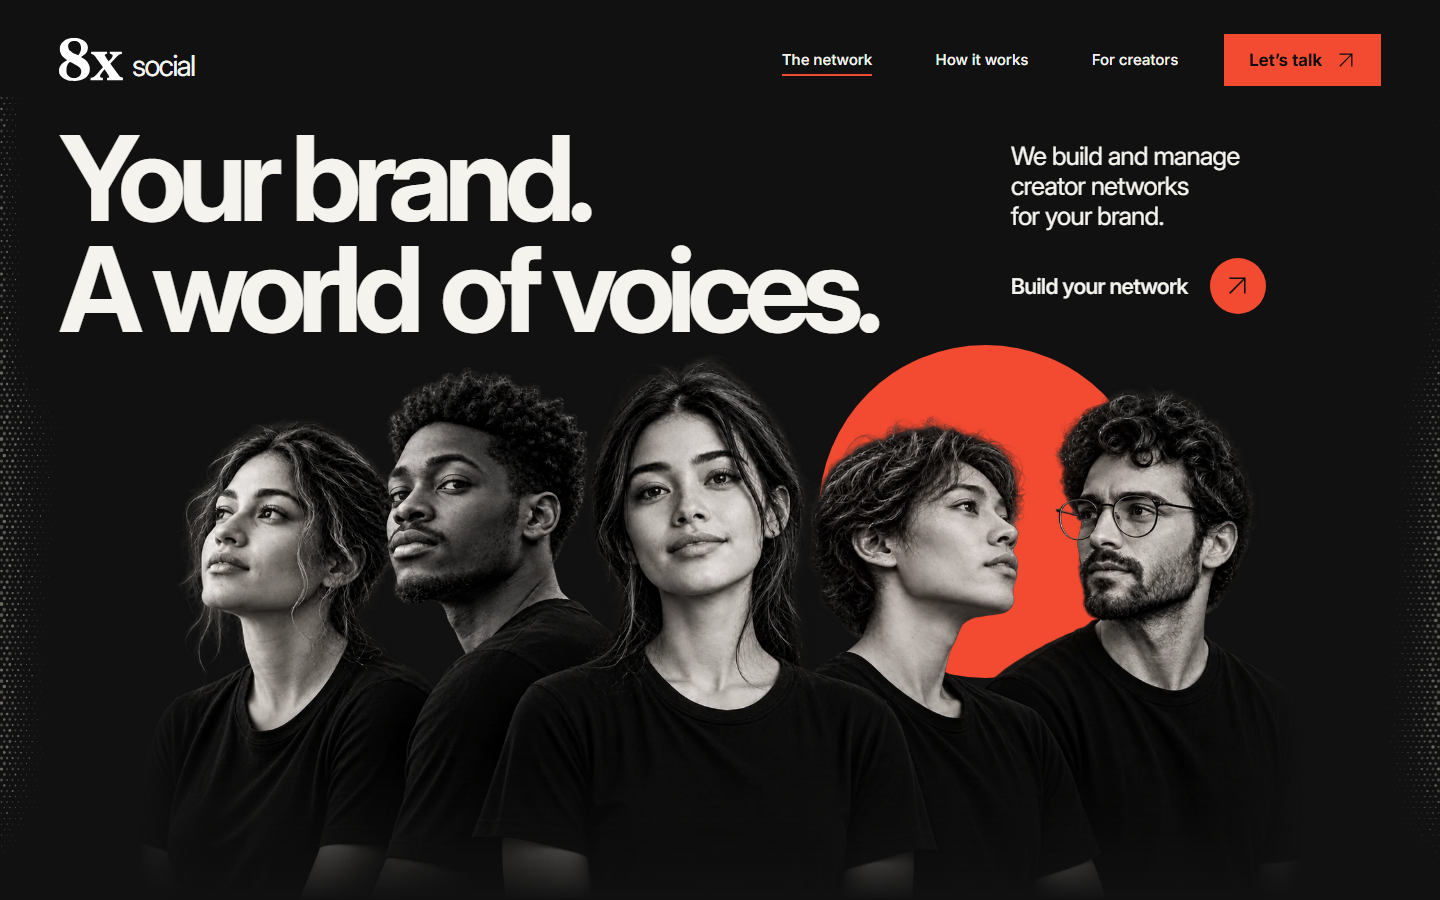
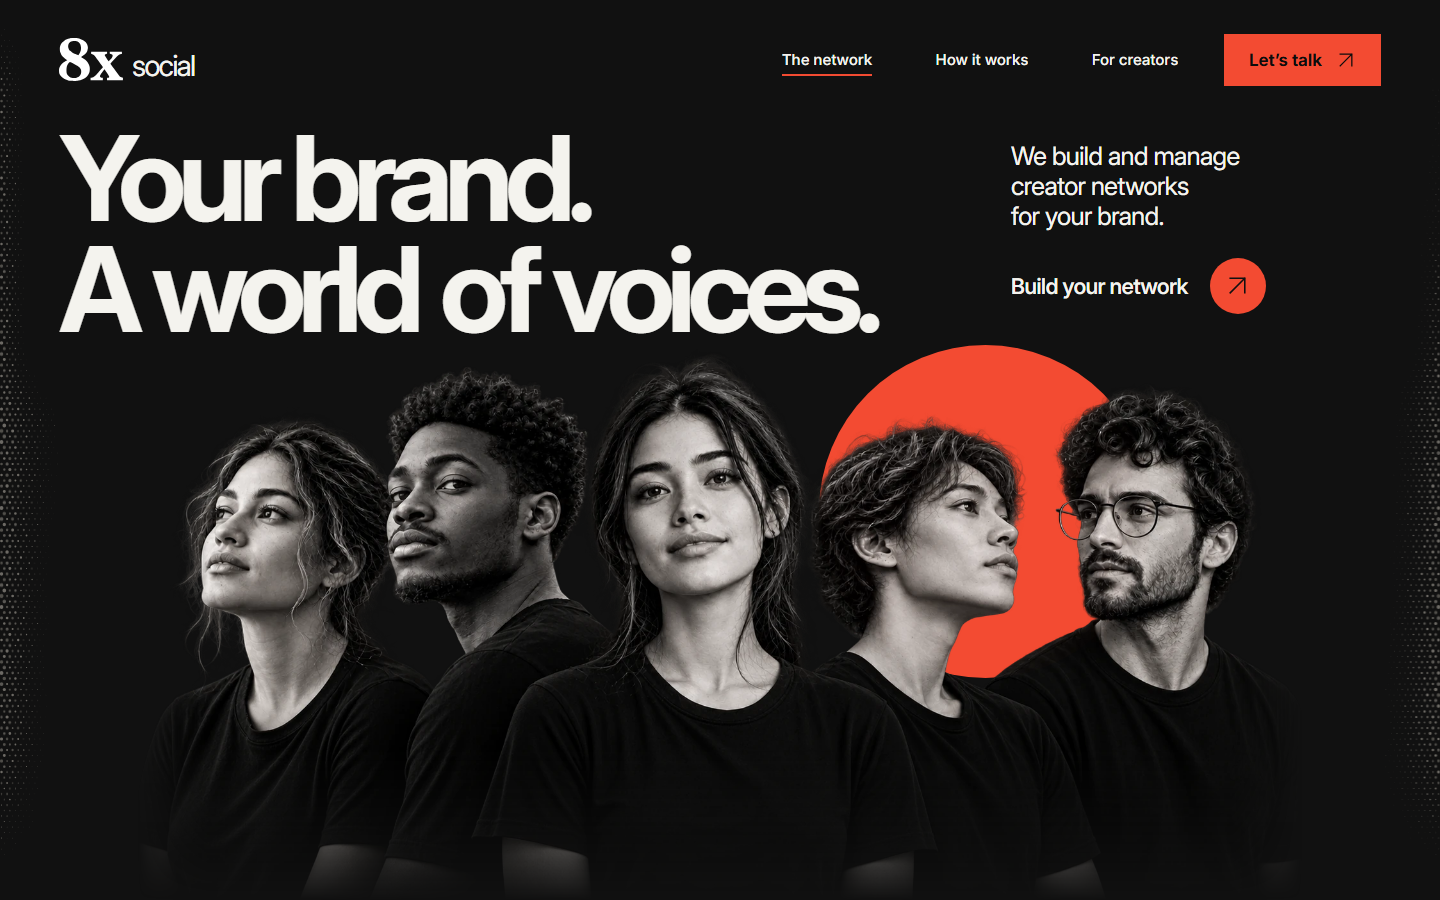
Blend hero dots through navigation and explore subtle side controls

diff --git a/components/hero-raster-edge.tsx b/components/hero-raster-edge.tsx
@@ -23,7 +23,8 @@ function edgePaths(width: number, height: number, gutter: number, copyBottom: nu
       const copyClearance = Math.max(8, gutter - 22);
       const open = smooth((y - copyBottom) / 110);
       const extent = Math.min(band * contour, copyClearance + (band - copyClearance) * open);
-      const endFade = 1 - smooth((t - .78) / .22);
+      // Start softly at the document top, including the navigation area.
+      const endFade = smooth(y / 100) * (1 - smooth((t - .78) / .22));
       const appear = side ? .18 + .82 * smooth((t - .15) / .4) : .65 + .35 * smooth(t / .5);
       for (let col = 0, offset = 1.5 + (row % 2) * pitch / 2; offset < extent; col++, offset += pitch) {
         const strength = Math.pow(1 - offset / extent, 1.8) * appear * endFade;
@@ -42,20 +43,26 @@ function edgePaths(width: number, height: number, gutter: number, copyBottom: nu
 export function HeroRasterEdge() {
   const root = useRef<SVGSVGElement>(null);
   useEffect(() => {
-    const svg = root.current!, hero = svg.parentElement!, copy = hero.querySelector('.hero-reading')!;
+    const svg = root.current!;
+    const hero = document.querySelector<HTMLElement>('.hero')!;
+    const copy = hero.querySelector('.hero-reading')!;
+    const header = document.querySelector('.site-header');
     const motion = matchMedia('(prefers-reduced-motion: reduce)');
     let visible = false;
     const syncMotion = () => { svg.dataset.active = String(visible && !document.hidden && !motion.matches); };
     const measure = () => {
       const outer = hero.getBoundingClientRect(), reading = copy.getBoundingClientRect();
       if (!outer.width || !outer.height) return;
-      svg.setAttribute('viewBox', `0 0 ${outer.width} ${outer.height}`);
-      const { paths, band } = edgePaths(outer.width, outer.height, reading.left - outer.left, reading.bottom - outer.top);
+      const height = outer.bottom + window.scrollY;
+      svg.style.height = `${height}px`;
+      svg.setAttribute('viewBox', `0 0 ${outer.width} ${height}`);
+      const { paths, band } = edgePaths(outer.width, height, reading.left - outer.left, reading.bottom + window.scrollY);
       paths.forEach((path, index) => svg.children[index].setAttribute('d', path));
       svg.dataset.band = band.toFixed(1);
       svg.dataset.ready = 'true';
     };
     const resize = new ResizeObserver(measure); resize.observe(hero); resize.observe(copy);
+    if (header) resize.observe(header);
     const intersection = new IntersectionObserver(([entry]) => { visible = entry.isIntersecting; syncMotion(); });
     intersection.observe(hero);
     document.addEventListener('visibilitychange', syncMotion);

diff --git a/app/hero-raster-edge.css b/app/hero-raster-edge.css
@@ -1,12 +1,12 @@
 .hero{position:relative;isolation:isolate}
 .hero-portrait{z-index:1}
-.hero-raster-edge{position:absolute;inset:0;z-index:0;width:100%;height:100%;overflow:hidden;pointer-events:none;fill:#c4bfb2}
+.hero-raster-edge{position:absolute;top:0;left:0;z-index:31;width:100%;height:0;overflow:hidden;pointer-events:none;fill:#c4bfb2}
 /* The only exception to the earlier sections' decorative-motion reset. */
-main .hero-raster-edge .hero-raster-layer{opacity:.4;animation:hero-raster-breathe 12s ease-in-out infinite!important;animation-play-state:paused!important;transform-box:view-box;transform-origin:0 50%}
-main .hero-raster-edge .hero-raster-right{transform-origin:100% 50%}
-main .hero-raster-edge[data-active=true] .hero-raster-layer{animation-play-state:running!important}
-main .hero-raster-edge .hero-raster-layer-1{animation-delay:-4s!important;fill:#aaa69e}
-main .hero-raster-edge .hero-raster-layer-2{animation-delay:-8s!important;fill:#d8d2c6}
+.hero-raster-edge .hero-raster-layer{opacity:.4;animation:hero-raster-breathe 12s ease-in-out infinite!important;animation-play-state:paused!important;transform-box:view-box;transform-origin:0 50%}
+.hero-raster-edge .hero-raster-right{transform-origin:100% 50%}
+.hero-raster-edge[data-active=true] .hero-raster-layer{animation-play-state:running!important}
+.hero-raster-edge .hero-raster-layer-1{animation-delay:-4s!important;fill:#aaa69e}
+.hero-raster-edge .hero-raster-layer-2{animation-delay:-8s!important;fill:#d8d2c6}
 @keyframes hero-raster-breathe{0%,100%{opacity:.36;transform:scaleX(1)}50%{opacity:.5;transform:scaleX(1.014)}}
 @media(min-width:2600px){.hero-raster-edge{opacity:.85}}
-@media(prefers-reduced-motion:reduce){main .hero-raster-edge .hero-raster-layer{animation:none!important;opacity:.43;transform:none}}
+@media(prefers-reduced-motion:reduce){.hero-raster-edge .hero-raster-layer{animation:none!important;opacity:.43;transform:none}}

diff --git a/tests/hero-raster-edge.spec.ts b/tests/hero-raster-edge.spec.ts
@@ -40,10 +40,15 @@ test('raster stays at physical screen edges through desktop, ultrawide and mobil
     await expect.poll(()=>edge.getAttribute('viewBox')).toMatch(new RegExp(`^0 0 ${width} `));
     const bounds=await edge.boundingBox();
     expect(bounds!.x).toBe(0); expect(bounds!.width).toBe(width);
+    expect(bounds!.y).toBe(0);
+    const headerBottom = (await page.locator('.site-header').boundingBox())!.height;
     expect(await page.locator('.hero-portrait .hero-raster-edge').count()).toBe(0);
     const geometry=await edge.locator('path').evaluateAll(elements=>elements.map(el=>{
-      const b=(el as SVGPathElement).getBBox();return {x:b.x,width:b.width};
+      const b=(el as SVGPathElement).getBBox();return {x:b.x,y:b.y,width:b.width};
     }));
+    // The texture must begin softly inside the header, never at its bottom edge.
+    expect(Math.min(...geometry.map(b=>b.y))).toBeGreaterThan(0);
+    expect(Math.min(...geometry.map(b=>b.y))).toBeLessThan(headerBottom - 10);
     for(const left of geometry.slice(0,3)){expect(left.x).toBeLessThan(10);expect(left.x+left.width).toBeLessThan(width*.18);}
     for(const right of geometry.slice(3)){expect(right.x).toBeGreaterThan(width*.82);expect(right.x+right.width).toBeGreaterThan(width-10);}
     expect(await page.evaluate(()=>document.documentElement.scrollWidth<=innerWidth)).toBe(true);

diff --git a/app/page.tsx b/app/page.tsx
@@ -7,9 +7,10 @@ import { NetworkComparison } from '@/components/network-comparison';
 import { ReachAtlas } from '@/components/reach-atlas';
 import { MapApproach } from '@/components/map-approach';
 import { FamilyFooter } from '@/components/family-footer';
+import { HeroRasterEdge } from '@/components/hero-raster-edge';
 
 export default function Home() {
-  return <><Header /><MapApproach /><main id="main"><Hero /><CreatorWork /><DayToDay /><DotReach /><NetworkComparison /><ReachAtlas /></main>
+  return <><Header /><HeroRasterEdge /><MapApproach /><main id="main"><Hero /><CreatorWork /><DayToDay /><DotReach /><NetworkComparison /><ReachAtlas /></main>
     <FamilyFooter />
   </>;
 }

diff --git a/components/hero.tsx b/components/hero.tsx
@@ -1,11 +1,9 @@
 import { Arrow } from './icons';
 import { links } from '@/lib/content';
-import { HeroRasterEdge } from './hero-raster-edge';
 import { HeroSun } from './hero-sun';
 
 export function Hero() {
   return <section className="hero" id="network" aria-labelledby="hero-title">
-    <HeroRasterEdge />
     <div className="hero-reading page-width">
       <h1 id="hero-title"><span>Your brand.</span><span>A world</span><span>of voices.</span></h1>
       <div className="hero-offer">

diff --git a/AGENTS.md b/AGENTS.md
@@ -1,4 +1,6 @@
 # 8x Social Minimal
+
+Latest correction: screen-edge dots now span the document top, including the navigation, with a smooth 100px density fade-in. This removes the abrupt horizontal start at the former hero/header boundary on 1080p and 2K. The layer remains decorative, pointer-transparent, resize-driven and paused offscreen/hidden; portrait composition is unchanged. Sidebar ideas are concepts only, not approved implementation.
 Latest approved implementation: screen-edge raster v2 replaces the rejected photo border. Six SVG paths form asymmetric fields anchored to the physical hero edges. A 12-second cycle breathes opacity and at most 1.4% local width, with no portrait movement. Ultrawide fields broaden and soften, while text clearance stays protected; the orange disc follows the centered portrait group. Offscreen/hidden pauses and static reduced motion are supported. See design/hero-screen-edge-v2 and docs/IMPLEMENTATION.md. Later section/footer redesigns remain pending.
 Hero raster-edge concept is now approved and implemented with an explicitly very subtle motion requirement. Three SVG print layers breathe over eight seconds with under one pixel of travel; original portraits remain untouched. It pauses offscreen/hidden and is static for reduced motion. This is a narrow exception to the earlier no-decorative-motion rule. See design/hero-raster-edge-v1 and docs/IMPLEMENTATION.md. Later section/footer redesigns remain pending.
 Newest feedback: current 8x-to-infinity transition is rejected; a future standalone infinity footer with products is requested. Day-to-day, Dot Reach and comparison need distinct designs with consistent media treatment. Immediate task is a generated hero halftone-edge animation concept only (design/hero-raster-edge-v1); subsequent redesign work follows later. Do not treat older approvals below as current approval. See design/CURRENT-DIRECTION.md.

diff --git a/design/CURRENT-DIRECTION.md b/design/CURRENT-DIRECTION.md
@@ -1,5 +1,7 @@
 # Current design direction
 
+Latest correction: screen-edge dots now span the document top, including the navigation, with a smooth 100px density fade-in. This removes the abrupt horizontal start at the former hero/header boundary on 1080p and 2K. The layer remains decorative, pointer-transparent, resize-driven and paused offscreen/hidden; portrait composition is unchanged. Sidebar ideas are concepts only, not approved implementation.
+
 ## Latest approved implementation: screen-edge breathing
 
 Latest approved implementation: screen-edge raster v2 replaces the rejected photo border. Six SVG paths form asymmetric fields anchored to the physical hero edges. A 12-second cycle breathes opacity and at most 1.4% local width, with no portrait movement. Ultrawide fields broaden and soften, while text clearance stays protected; the orange disc follows the centered portrait group. Offscreen/hidden pauses and static reduced motion are supported. See design/hero-screen-edge-v2 and docs/IMPLEMENTATION.md. Later section/footer redesigns remain pending.

diff --git a/docs/IMPLEMENTATION.md b/docs/IMPLEMENTATION.md
@@ -1,5 +1,7 @@
 # Implementation handoff
 
+Latest correction: screen-edge dots now span the document top, including the navigation, with a smooth 100px density fade-in. This removes the abrupt horizontal start at the former hero/header boundary on 1080p and 2K. The layer remains decorative, pointer-transparent, resize-driven and paused offscreen/hidden; portrait composition is unchanged. Sidebar ideas are concepts only, not approved implementation.
+
 ## Current hero: screen-edge raster v2
 
 Latest approved implementation: screen-edge raster v2 replaces the rejected photo border. Six SVG paths form asymmetric fields anchored to the physical hero edges. A 12-second cycle breathes opacity and at most 1.4% local width, with no portrait movement. Ultrawide fields broaden and soften, while text clearance stays protected; the orange disc follows the centered portrait group. Offscreen/hidden pauses and static reduced motion are supported. See design/hero-screen-edge-v2 and docs/IMPLEMENTATION.md. Later section/footer redesigns remain pending.

diff --git a/design/hero-screen-edge-v2/README.md b/design/hero-screen-edge-v2/README.md
@@ -7,3 +7,5 @@ The user approved this direction and requested restrained breathing shape plus u
 Geometry changes only on resize. Motion pauses offscreen/hidden and becomes static for reduced motion. The orange disc remains behind the portraits even on ultrawide screens. Source: components/hero-raster-edge.tsx, components/hero-sun.tsx, app/hero-raster-edge.css. QA: docs/qa/screen-edge-*.png and the two hero Playwright specs.
 
 The later section and standalone infinity-footer redesigns are still pending.
+
+Latest correction: screen-edge dots now span the document top, including the navigation, with a smooth 100px density fade-in. This removes the abrupt horizontal start at the former hero/header boundary on 1080p and 2K. The layer remains decorative, pointer-transparent, resize-driven and paused offscreen/hidden; portrait composition is unchanged. Sidebar ideas are concepts only, not approved implementation.

diff --git a/design/side-controls-v1/README.md b/design/side-controls-v1/README.md
@@ -1,0 +1,5 @@
+# Side control concepts
+
+Generated with built-in image_gen from the corrected live hero screenshot. Three alternatives on one comparison board: Scroll Thread (quietest), Chapter Dots (brand motif and navigation), Quiet Index (names revealed on intent). Enlargements explain the controls; production controls should stay small and support keyboard/touch and reduced motion. No option has been implemented or approved. The user requested fixing the top raster cutoff before choosing a control.
+
+Prompt: prompt.json. Image: 01-comparison.png. Other sections/footer redesigns remain deferred.
